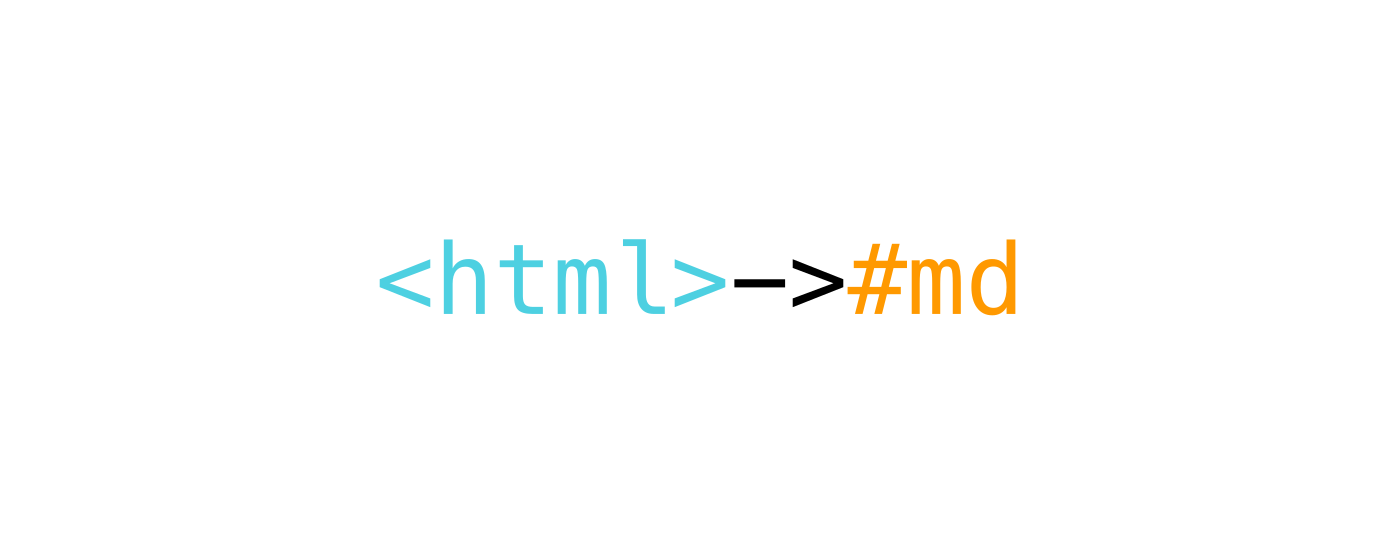
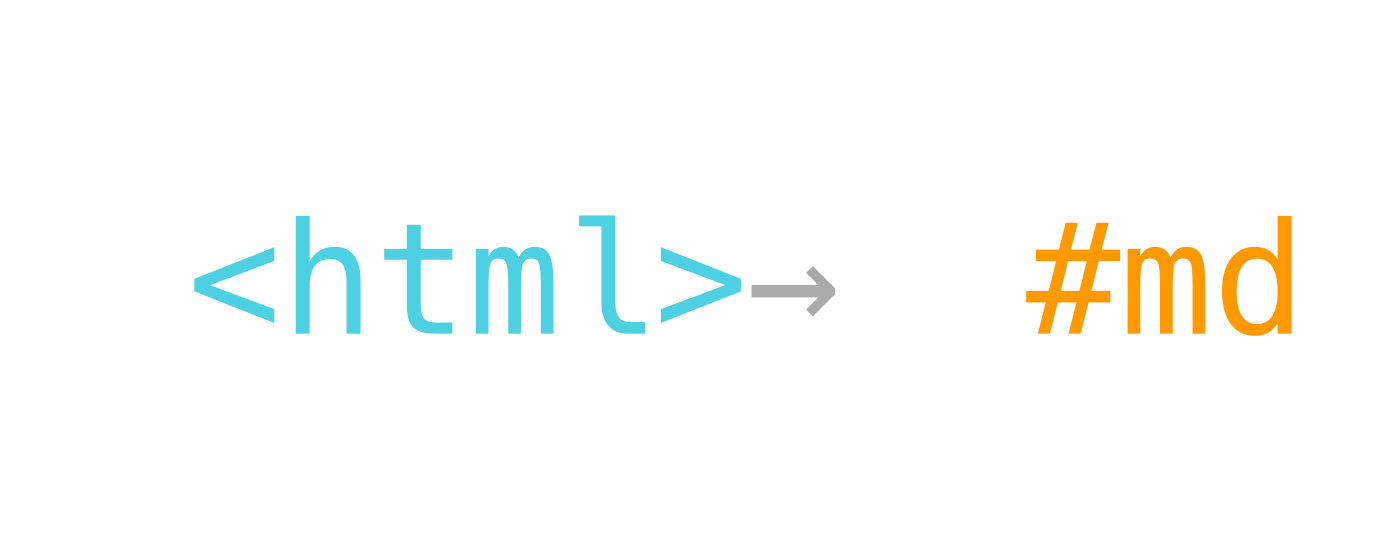
extend promo img generation

Changed region(s): [[0.1229, 0.3643, 0.9214, 0.6071]]

diff --git a/scripts/gen-promo.ts b/scripts/gen-promo.ts
@@ -9,60 +9,90 @@ const TEAL   = '#4DD0E1'
 const ORANGE = '#FF9900'
 const BG     = '#FFFFFF'
 
-// Segments: array of { text, color } — color defaults to black if not teal/orange
-// Parse a string like "<html> → #md" into colored spans.
-// Rules: tokens starting with '<' or containing '<' get teal; tokens starting with '#' get orange.
-function tokenize(text: string): { text: string; color: string }[] {
-  const tokens: { text: string; color: string }[] = []
+// Monospace char width ratio (Menlo/Courier)
+const CHAR_W_RATIO = 0.601
+
+type Token = { text: string; color: string }
+
+// Tokenize by character so spaces are preserved as grid cells.
+// Each character is its own token; adjacent same-color chars are merged for compact SVG output.
+function tokenize(text: string, neutralColor: string): Token[] {
+  const chars: Token[] = text.split('').map(ch => {
+    if (ch === ' ') return { text: ch, color: neutralColor }
+    // We can't know mid-stream whether we're inside a <...> block from single chars,
+    // so track state with a small pass.
+    return { text: ch, color: neutralColor }
+  })
+  // Two-pass: first mark teal ranges (<...>), then orange runs (#word).
+  const result: Token[] = text.split('').map(ch => ({ text: ch, color: neutralColor }))
   let i = 0
   while (i < text.length) {
-    const ch = text[i]
-    if (ch === '<') {
-      // consume until '>' or end
+    if (text[i] === '<') {
       const end = text.indexOf('>', i)
-      const raw = end === -1 ? text.slice(i) : text.slice(i, end + 1)
-      tokens.push({ text: raw, color: TEAL })
-      i += raw.length
-    } else if (ch === '#') {
-      // consume word chars after #
+      const stop = end === -1 ? text.length : end + 1
+      for (let j = i; j < stop; j++) result[j].color = TEAL
+      i = stop
+    } else if (text[i] === '#') {
       let j = i + 1
       while (j < text.length && /\S/.test(text[j])) j++
-      tokens.push({ text: text.slice(i, j), color: ORANGE })
+      for (let k = i; k < j; k++) result[k].color = ORANGE
       i = j
     } else {
-      // consume until next < or #
-      let j = i + 1
-      while (j < text.length && text[j] !== '<' && text[j] !== '#') j++
-      tokens.push({ text: text.slice(i, j), color: '#000000' })
-      i = j
+      i++
     }
   }
-  return tokens
+  // Merge adjacent same-color tokens
+  return result.reduce<Token[]>((acc, tok) => {
+    const last = acc[acc.length - 1]
+    if (last && last.color === tok.color) {
+      last.text += tok.text
+    } else {
+      acc.push({ ...tok })
+    }
+    return acc
+  }, [])
 }
 
 function escape(s: string): string {
   return s.replace(/&/g, '&amp;').replace(/</g, '&lt;').replace(/>/g, '&gt;')
 }
 
-function makeSvg(text: string, width: number, height: number): Buffer {
-  const tokens = tokenize(text)
-  // Font size: fit text to ~80% of width, estimate char width as ~0.6 * fontSize
+function makeSvg(text: string, width: number, height: number, neutralColor: string): Buffer {
+  const tokens = tokenize(text, neutralColor)
   const charCount = text.length
   const maxFs = Math.round(height * 0.45)
-  const fsByWidth = Math.round((width * 0.80) / (charCount * 0.60))
+  const fsByWidth = Math.round((width * 0.80) / (charCount * CHAR_W_RATIO))
   const fs = Math.min(maxFs, fsByWidth)
 
-  const spans = tokens
-    .map(t => `<tspan fill="${t.color}">${escape(t.text)}</tspan>`)
-    .join('')
+  // Place text on a monospace grid: compute total text width and center it.
+  // Each character occupies exactly fs * CHAR_W_RATIO px.
+  const cellW = fs * CHAR_W_RATIO
+  const totalW = charCount * cellW
+  const startX = (width - totalW) / 2 + cellW / 2
+
+  // Build tspan elements with explicit x positions per character group.
+  // We walk through merged tokens, tracking the running char offset.
+  let charOffset = 0
+  const spans: string[] = []
+  for (const tok of tokens) {
+    const x = startX + charOffset * cellW
+    // For multi-char tokens, list x positions for each char (monospace grid).
+    const xs = Array.from({ length: tok.text.length }, (_, k) =>
+      (x + k * cellW).toFixed(2)
+    ).join(' ')
+    spans.push(
+      `<tspan fill="${tok.color}" x="${xs}">${escape(tok.text)}</tspan>`
+    )
+    charOffset += tok.text.length
+  }
 
   const svg =
     `<svg xmlns="http://www.w3.org/2000/svg" width="${width}" height="${height}">` +
     `<rect width="${width}" height="${height}" fill="${BG}"/>` +
-    `<text x="${width / 2}" y="${height / 2}" ` +
+    `<text y="${height / 2}" ` +
     `font-family="Menlo,'Courier New',monospace" font-size="${fs}" ` +
-    `text-anchor="middle" dominant-baseline="central">` +
-    spans +
+    `dominant-baseline="central">` +
+    spans.join('') +
     `</text></svg>`
 
   return Buffer.from(svg)
@@ -74,21 +104,25 @@ function parseArgs() {
     const i = args.indexOf(flag)
     return i !== -1 ? args[i + 1] : undefined
   }
-  const text   = get('--text')
-  const width  = parseInt(get('--width')  ?? '440', 10)
-  const height = parseInt(get('--height') ?? '280', 10)
-  const out    = get('--out') ?? resolve(__dirname, `../icons/promo_${width}x${height}.png`)
+  const text         = get('--text')
+  const width        = parseInt(get('--width')        ?? '440',     10)
+  const height       = parseInt(get('--height')       ?? '280',     10)
+  const neutralColor = get('--arrow-color')           ?? '#000000'
+  const out          = get('--out') ?? resolve(__dirname, `../icons/promo_${width}x${height}.png`)
   if (!text) {
-    console.error('Usage: gen-promo --text "<html> → #md" [--width 440] [--height 280] [--out path.png]')
+    console.error(
+      'Usage: gen-promo --text "<html> → #md" [--width 440] [--height 280] ' +
+      '[--arrow-color #888888] [--out path.png]'
+    )
     process.exit(1)
   }
-  return { text, width, height, out }
+  return { text, width, height, neutralColor, out }
 }
 
 async function main() {
-  const { text, width, height, out } = parseArgs()
+  const { text, width, height, neutralColor, out } = parseArgs()
   mkdirSync(resolve(out, '..'), { recursive: true })
-  await sharp(makeSvg(text, width, height)).png().toFile(out)
+  await sharp(makeSvg(text, width, height, neutralColor)).png().toFile(out)
   console.log(`  ${out}`)
 }
 